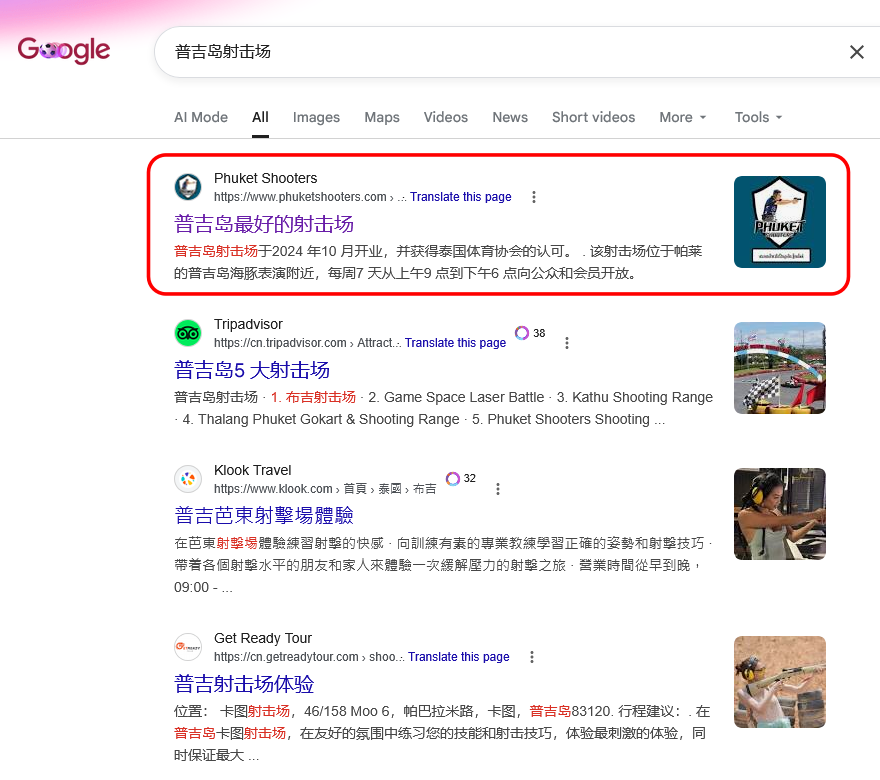
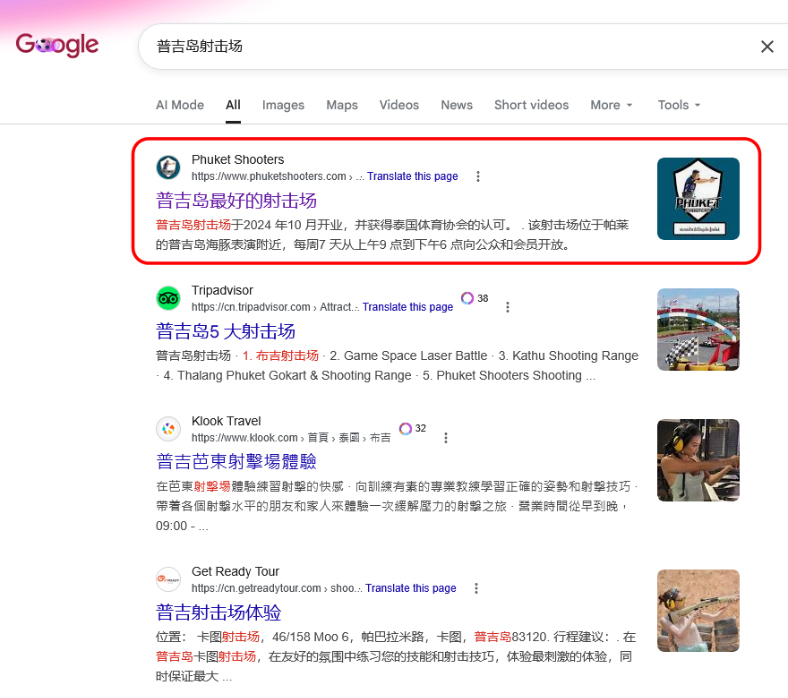
Fixing spacing bug with SEO images
Am hoping mobile is okay...

diff --git a/Case02.html b/Case02.html
@@ -91,7 +91,7 @@
     </div>
 
 
-    <!-- SHOTS ROW --> 
+    <!-- SHOTS ROW -->
     <div class="row key-images-row" style="text-align: center; padding-bottom: 20px;">
         <div class="col-sm-4 case-study-item">
             <figure class="case-study-figure">
@@ -295,7 +295,7 @@
         <div class="col-sm-3">
         </div>
     </div>
-        <!-- SHOTS ROW --> 
+    <!-- SHOTS ROW -->
     <div class="row port-green key-images-row" style="text-align: center; padding-bottom: 20px;">
         <div class="col-sm-1">
         </div>
@@ -351,7 +351,7 @@
 
 
     <!-- PHASE 6 ROW -->
-    <div class="row bg-white border-top" style="padding-top: 40px; padding-bottom: 0px;">
+    <div class="row bg-white border-top" style="padding-top: 40px; padding-bottom: 40px;">
         <div class="col-sm-3">
         </div>
         <div class="col-sm-6">
@@ -385,13 +385,35 @@
                     </li>
                 </ul>
             </p>
+            <!-- SHOTS ROW -->
+            <div class="row key-images-row" style="text-align: center; padding-bottom: 0px; margin-top:0px; padding-top: 0px;">
+                <div class="col-sm-6 case-study-item">
+                    <figure class="case-study-figure">
+                        <img class="search-result-image" src="assets/images/SEO_Google_2026_06.png"
+                            alt="Top search ranking on Google for Chinese">
+                        <figcaption class="figure-caption" style="color: #000000;">
+                            Top search ranking on Google for Chinese
+                        </figcaption>
+                    </figure>
+                </div>
+                <div class="col-sm-6 case-study-item case-study-item-last">
+                    <figure class="case-study-figure">
+                        <img class="search-result-image" src="assets/images/SEO_Bing_2026_06.png"
+                            alt="Top search ranking on Bing for English">
+                        <figcaption class="figure-caption" style="color: #000000;">
+                            Top search ranking on Bing for English
+                        </figcaption>
+                    </figure>
+                </div>
+            </div>
+
         </div>
         <div class="col-sm-3">
         </div>
     </div>
 
     <!-- FOOTER -->
-    <div class="row" style="padding-bottom: 80px; padding-top: 40px;">
+    <div class="row" style="padding-bottom: 80px; padding-top: 0px;">
         <div class="col-sm-3">
         </div>
         <div class="col-sm-6">

diff --git a/Portfolio_format.css b/Portfolio_format.css
@@ -105,6 +105,13 @@ p {
   object-fit: contain;
 }
 
+.search-result-image {
+  display: block;
+  width: 100%;
+  height: auto;
+  margin-inline: auto;
+}
+
 /* Keep each case-study image visually grouped with its caption. */
 .case-study-figure {
   display: block;
